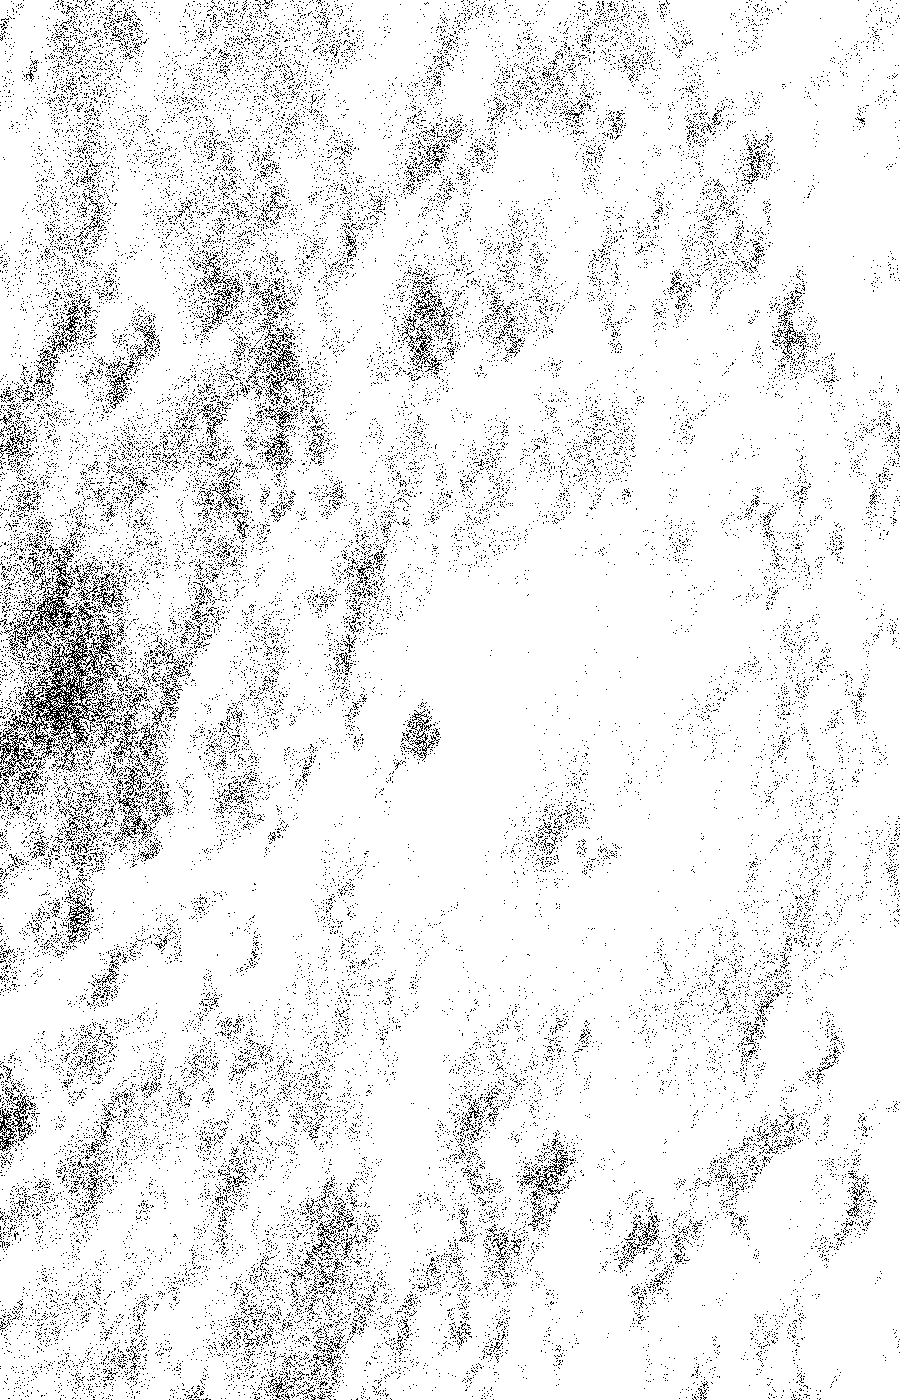
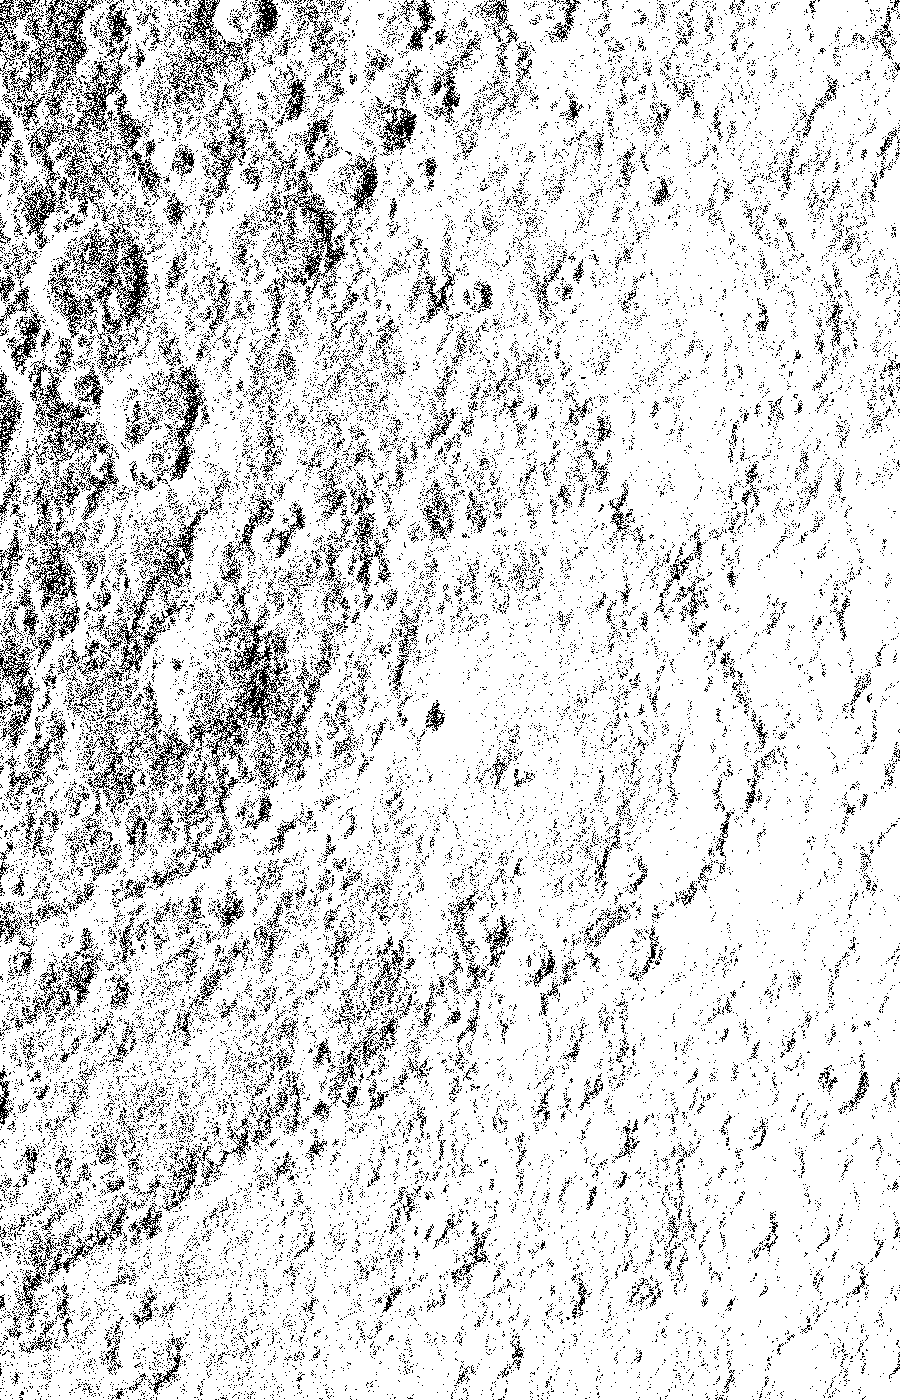
feat(landing): the hero print zooms out to 60° so Mercury's crater field shows
Takes astrolabe-site 25861ca's re-render of the print-wide and print-tall masks,
copied over under the same names.

diff --git a/apps/landing/README.md b/apps/landing/README.md
@@ -1,7 +1,7 @@
 # @mercurian/landing
 
 The Astrolabe landing page, an Astro app. It is the `drafting/` page of the
-`astrolabe-site` repository (`~/dev/mercurian/astrolabe-site`, ported at `86f2338`), rebuilt one to one:
+`astrolabe-site` repository (`~/dev/mercurian/astrolabe-site`, ported at `86f2338`, with the hero print from `25861ca`), rebuilt one to one:
 the same markup, styles and scripts, split into a layout and one component per section.
 
 ```sh
